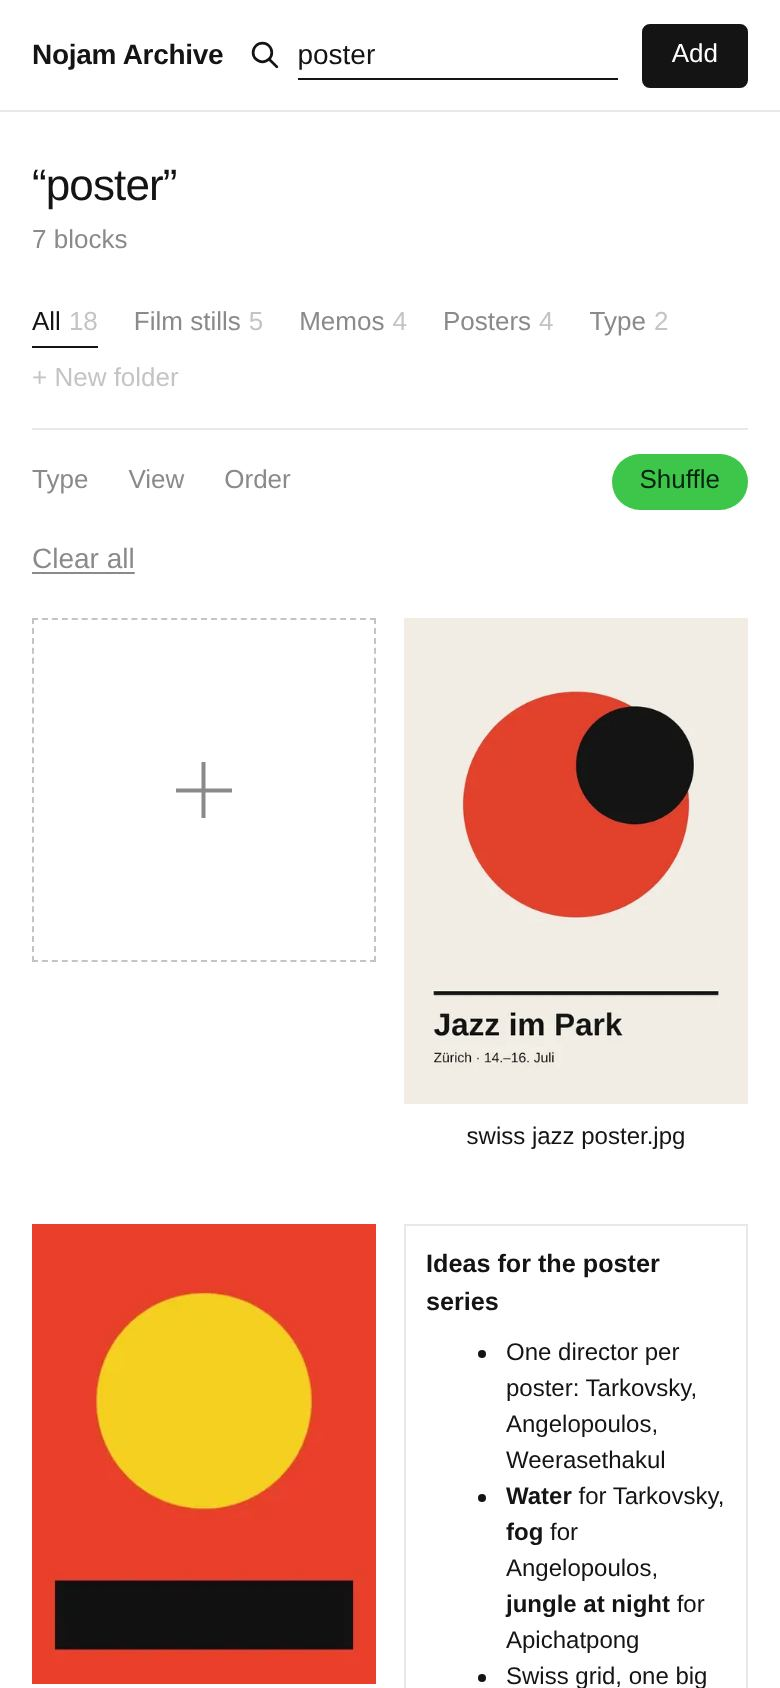
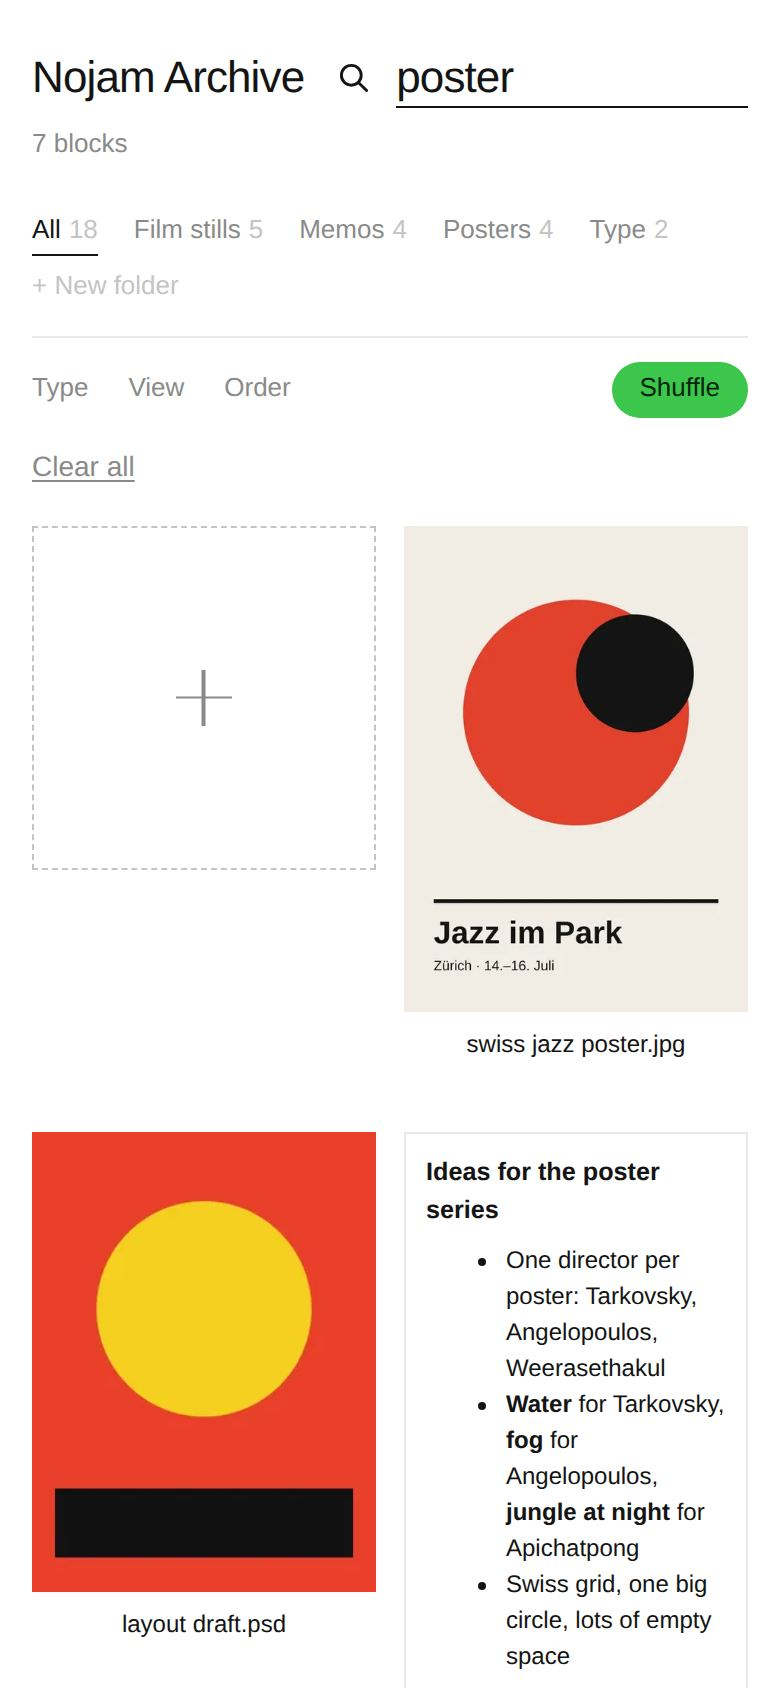
Archive: no top bar; the magnifier sits next to the heading
- The sticky top bar is gone: title, search, the Add button and the
  status.
- The magnifier now sits right after the big heading (the archive's or
  the folder's name). It opens into a search field set at the
  heading's size, on the same line. The heading keeps naming where you
  are, and the query stays in the field.
- The tagging status moved next to the block count. You still add
  things with the + tile, drag and drop, or paste.
- README screenshots updated.

Claude-Session: https://claude.ai/code/session_01DGq6NenZ9XzYFX9pC2TA4u

diff --git a/archive/public/style.css b/archive/public/style.css
@@ -85,46 +85,21 @@ button { cursor: pointer; }
 }
 .linkish:hover { color: var(--fg); }
 
-/* ---------- top bar ---------- */
+/* ---------- search: a magnifier right after the heading ---------- */
 
-.topbar {
-  position: sticky;
-  top: 0;
-  z-index: 20;
-  display: flex;
-  align-items: center;
-  gap: 12px;
-  height: 56px;
-  padding: 0 var(--gutter);
-  padding-top: env(safe-area-inset-top);
-  background: color-mix(in srgb, var(--bg) 92%, transparent);
-  backdrop-filter: saturate(1.4) blur(12px);
-  -webkit-backdrop-filter: saturate(1.4) blur(12px);
-  border-bottom: 1px solid var(--line);
-}
-.brand {
-  display: flex;
-  align-items: center;
-  gap: 10px;
-  font-weight: 600;
-  text-decoration: none;
-  white-space: nowrap;
-  letter-spacing: -0.01em;
-}
-/* Search is just a magnifier next to the title. Click it (or press /) and it opens into a field. */
+/* Click it (or press /) and it opens into a field set in the heading's size. */
 .search {
   display: flex;
   align-items: center;
   min-width: 0;
-  height: 32px;
   color: var(--fg);
   cursor: pointer;
 }
-.search svg { width: 17px; height: 17px; flex: none; }
+.search svg { width: 22px; height: 22px; flex: none; }
 .search input {
   width: 0;
   min-width: 0;
-  height: 24px;
+  height: 36px;
   padding: 0;
   border: 0;
   border-bottom: 1px solid var(--fg);
@@ -132,12 +107,15 @@ button { cursor: pointer; }
   outline: 0;
   background: transparent;
   color: var(--fg);
+  font-size: 28px;
+  letter-spacing: -0.02em;
   opacity: 0;
 }
-.search:focus-within, .search:has(input:not(:placeholder-shown)) { flex: 0 1 280px; gap: 8px; cursor: text; }
+.search input::placeholder { color: var(--faint); }
+/* open: it takes the rest of the heading's line (up to 380px), and only wraps under a long heading */
+.search:focus-within, .search:has(input:not(:placeholder-shown)) { flex: 1 1 140px; max-width: 380px; gap: 12px; cursor: text; }
 .search:focus-within input, .search:has(input:not(:placeholder-shown)) input { flex: 1; opacity: 1; }
 .search input::-webkit-search-cancel-button { cursor: pointer; }
-.top-actions { margin-left: auto; display: flex; align-items: center; gap: 12px; }
 .status {
   display: inline-flex;
   align-items: center;
@@ -172,7 +150,8 @@ button { cursor: pointer; }
 /* ---------- channel header & filters ---------- */
 
 main { padding: 0 var(--gutter) 96px; }
-.channel-head { padding: 40px 0 6px; }
+.channel-head { padding: calc(40px + env(safe-area-inset-top)) 0 6px; }
+.title-line { display: flex; align-items: center; flex-wrap: wrap; gap: 6px 16px; }
 .channel-head h1 {
   margin: 0;
   font-size: 28px;
@@ -180,8 +159,10 @@ main { padding: 0 var(--gutter) 96px; }
   letter-spacing: -0.02em;
   line-height: 1.15;
   overflow-wrap: anywhere;
+  min-width: 0;
 }
 .channel-head p { margin: 6px 0 0; font-size: 13px; }
+.subline { display: flex; align-items: center; flex-wrap: wrap; gap: 4px 14px; min-height: 24px; }
 
 .folders {
   display: flex;
@@ -792,15 +773,16 @@ a.trow:hover .c-name { text-decoration: underline; text-underline-offset: 3px; }
 
 @media (max-width: 640px) {
   :root { --gutter: 16px; --cell: 140px; }
-  .status .label { display: none; }
   .menus { gap: 20px; }
   .trow { grid-template-columns: 40px minmax(0, 1fr) auto; gap: 12px; }
   .trow .c-type, .trow .c-size, .trow .c-folder, .trow .c-updated { display: none; }
   .irow { grid-template-columns: minmax(0, 1fr) auto; gap: 12px; }
   .i-name { font-size: 16px; }
   .i-folder { display: none; }
-  .channel-head { padding-top: 24px; }
+  .channel-head { padding-top: calc(24px + env(safe-area-inset-top)); }
   .channel-head h1 { font-size: 22px; }
+  .search svg { width: 18px; height: 18px; }
+  .search input { height: 30px; font-size: 22px; }
   .grid { column-gap: 14px; row-gap: 18px; padding-top: 20px; }
   .filters-row { flex-wrap: wrap; }
   .text-block { font-size: 12px; padding: 10px 10px 0; }

diff --git a/archive/public/app.js b/archive/public/app.js
@@ -598,14 +598,13 @@ fileInput.addEventListener('change', () => {
   uploadFiles([...fileInput.files]);
   fileInput.value = '';
 });
-$('#add-btn').addEventListener('click', () => fileInput.click());
 
 let dragDepth = 0;
 const dragHasContent = (e) => [...(e.dataTransfer?.types || [])].some((t) => t === 'Files' || t === 'text/uri-list');
 window.addEventListener('dragenter', (e) => {
   if (!dragHasContent(e)) return;
   dragDepth++;
-  $('#dropzone-label').textContent = `Drop to add to ${state.folder ? state.folder.split('/').pop() : $('#brand-title').textContent}`;
+  $('#dropzone-label').textContent = `Drop to add to ${state.folder ? state.folder.split('/').pop() : state.status?.title || 'Archive'}`;
   $('#dropzone').hidden = false;
 });
 window.addEventListener('dragleave', () => {
@@ -674,12 +673,12 @@ function toast(message, { error = false, progress = false } = {}) {
 function renderHeading() {
   const title = state.status?.title || 'Archive';
   const folderName = state.folder.split('/').pop();
-  let heading = state.q ? `“${state.q}”` : state.folder ? folderName : title;
+  // The heading names the place you're in; what you search for stays in the field next to it.
+  let heading = state.folder ? folderName : title;
   if (!state.q && !state.folder && state.tags.length === 1) heading = `#${state.tags[0]}`;
   $('#heading').textContent = heading;
   const bits = [`${state.total.toLocaleString()} ${state.total === 1 ? 'block' : 'blocks'}`];
   if (state.folder && state.folder.includes('/')) bits.push(`in ${state.folder.split('/').slice(0, -1).join(' / ')}`);
-  if (state.q && state.folder) bits.push(`in ${folderName}`);
   $('#subheading').textContent = bits.join(' · ');
   document.title = state.q ? `${state.q} – ${title}` : state.folder ? `${folderName} – ${title}` : title;
   $('#empty').hidden = !(state.done && !state.items.length);
@@ -889,11 +888,6 @@ $('#q').addEventListener('keydown', (e) => {
     e.target.blur();
   }
 });
-$('#brand').addEventListener('click', (e) => {
-  e.preventDefault();
-  $('#q').value = '';
-  applyFilters({ q: '', tags: [], folder: '', kind: '', sort: '' });
-});
 
 // ---------- status & tagging banner ----------
 
@@ -901,7 +895,6 @@ let bannerDismissed = false;
 function renderStatus(s) {
   const first = !state.status;
   state.status = s;
-  $('#brand-title').textContent = s.title;
   const t = s.tagging;
   const btn = $('#status');
   let cls = '';

diff --git a/archive/public/index.html b/archive/public/index.html
@@ -9,24 +9,18 @@
   <meta name="color-scheme" content="light dark">
 </head>
 <body>
-  <header class="topbar">
-    <a class="brand" href="/" id="brand"><span id="brand-title">Archive</span></a>
-    <label class="search" title="Search (/)">
-      <svg viewBox="0 0 20 20" aria-hidden="true"><circle cx="8.5" cy="8.5" r="5.5" fill="none" stroke="currentColor" stroke-width="1.6"/><path d="M12.6 12.6 17 17" stroke="currentColor" stroke-width="1.6" stroke-linecap="round"/></svg>
-      <input id="q" type="search" placeholder="Search" autocomplete="off" spellcheck="false" aria-label="Search">
-    </label>
-    <div class="top-actions">
-      <button id="status" class="status" type="button" hidden></button>
-      <button id="add-btn" class="btn" type="button">Add</button>
-    </div>
-  </header>
-
   <div id="banner" class="banner" hidden></div>
 
   <main>
     <section class="channel-head">
-      <h1 id="heading">All blocks</h1>
-      <p id="subheading" class="muted"></p>
+      <div class="title-line">
+        <h1 id="heading">Archive</h1>
+        <label class="search" title="Search (/)">
+          <svg viewBox="0 0 20 20" aria-hidden="true"><circle cx="8.5" cy="8.5" r="5.5" fill="none" stroke="currentColor" stroke-width="1.6"/><path d="M12.6 12.6 17 17" stroke="currentColor" stroke-width="1.6" stroke-linecap="round"/></svg>
+          <input id="q" type="search" placeholder="Search" autocomplete="off" spellcheck="false" aria-label="Search">
+        </label>
+      </div>
+      <p class="subline"><span id="subheading" class="muted"></span><button id="status" class="status" type="button" hidden></button></p>
     </section>
 
     <nav class="folders" id="folders" aria-label="Folders"></nav>
